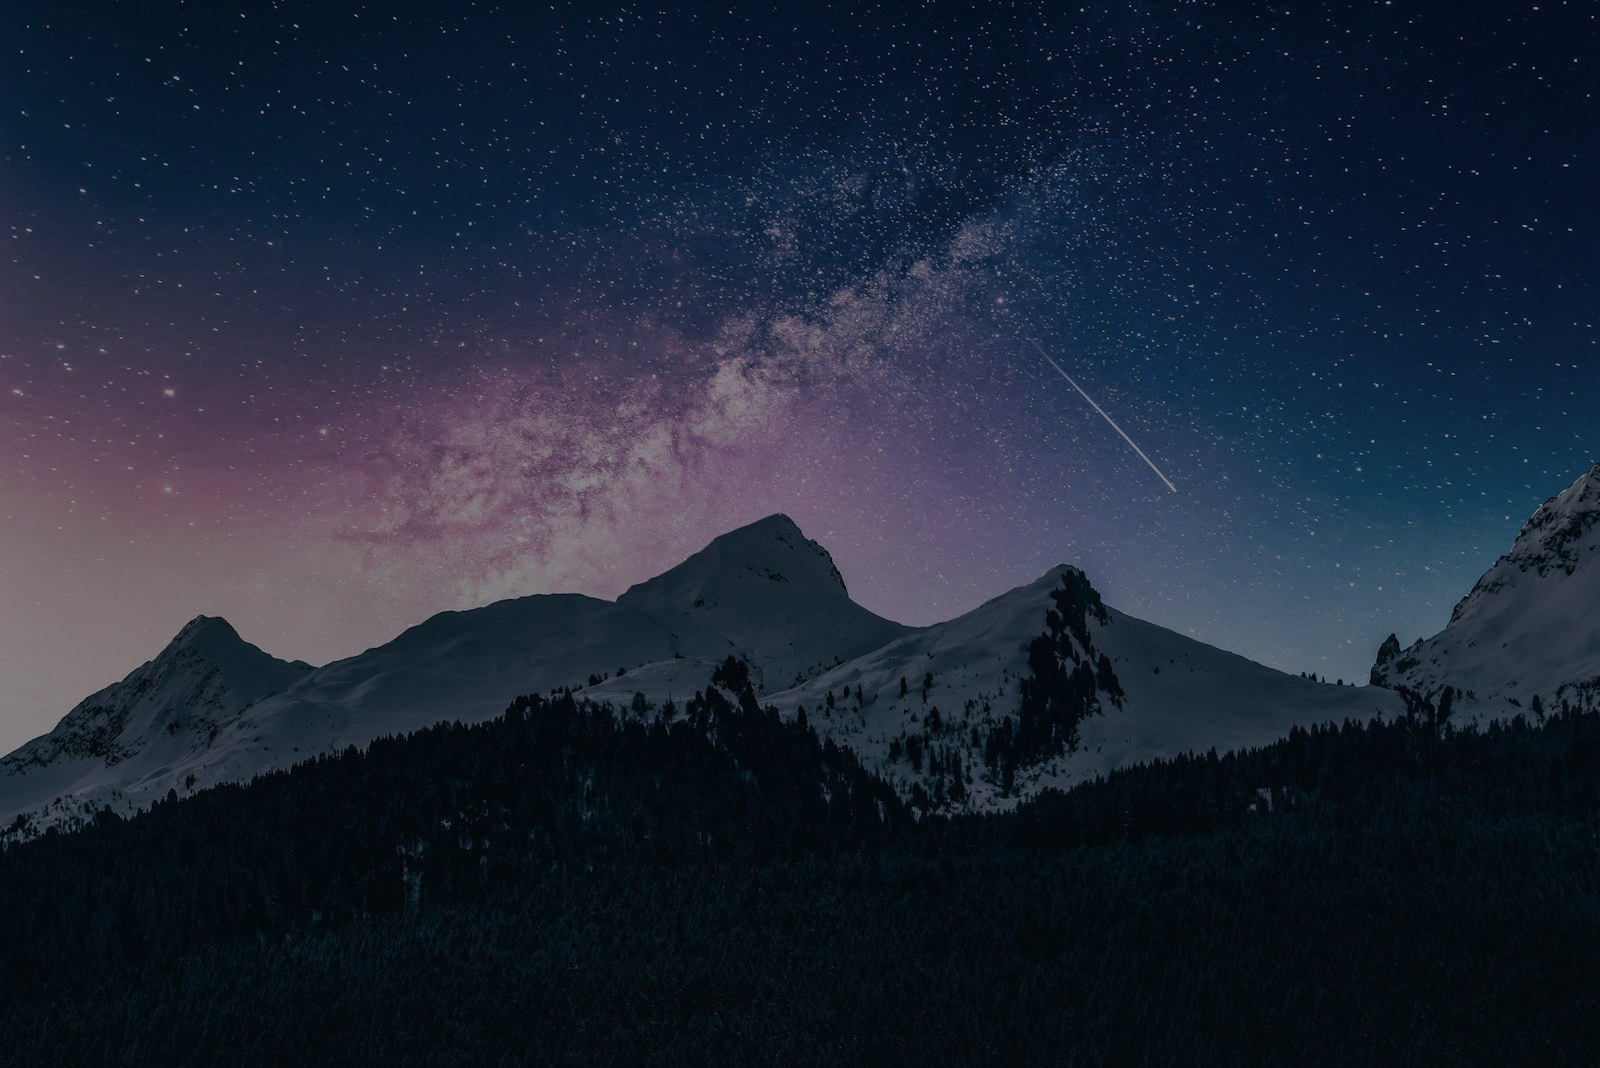
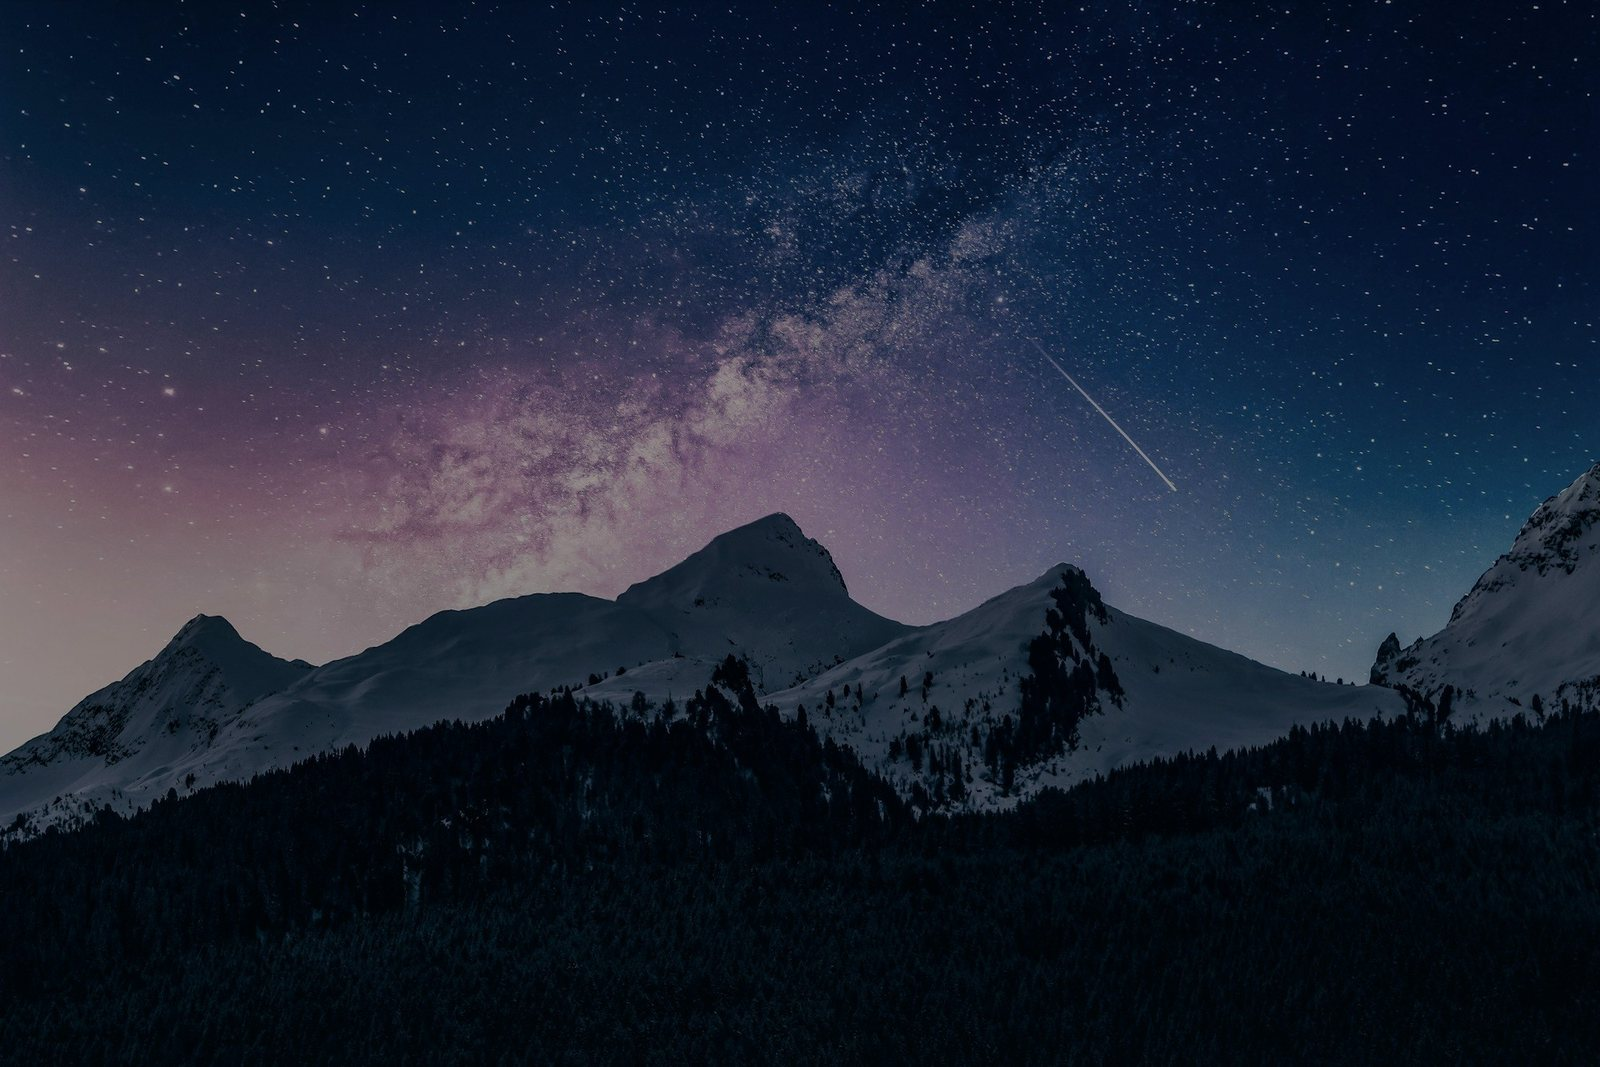
polish(web): cinematic grade on backdrop, a-wrapper click-through, remove hint & audio
- Background regraded (teal shadows / warm highlights, desaturation, gentle
  contrast) at 2000px source, delivered 1600px/227KB.
- Click-through now uses a real <a> covering the page (works even where JS
  navigation is blocked); JS removed entirely - no audio, no hint, pure page.
- Why no audio: real-sample sources unreachable from this network and any
  synthesized sound would be inaudible within the <2s before navigation.

diff --git a/index.html b/index.html
@@ -74,23 +74,20 @@
     animation: fadein 2s var(--ease) .6s forwards;
   }
 
-  /* 底部：呼吸指示（唯一交互动效） */
-  .hint {
-    position: fixed;
-    bottom: 2.5rem;
-    left: 50%;
-    transform: translateX(-50%);
-    font-family: 'Song Subset', serif;
-    font-size: .8rem;
-    letter-spacing: .3em;
-    color: rgba(255,255,255,.35);
-    opacity: 0;
-    animation: fadein 2s var(--ease) 1.5s forwards;
-  }
 
   @keyframes fadein {
     to { opacity: 1; }
   }
+
+  /* 整页链接：覆盖全屏、无链接视觉噪音，继承点击行为 */
+  .page {
+    position: fixed; inset: 0;
+    display: block;
+    color: inherit; text-decoration: none;
+    cursor: pointer;
+    -webkit-tap-highlight-color: transparent;
+  }
+  .page > .bg, .page > .vignette { position: absolute; }
 
   /* 三档断点预设换行 */
   @media (max-width: 600px) {
@@ -111,14 +108,13 @@
     main { gap: 1rem; }
     .en { font-size: clamp(1.5rem, 4.2vw, 2.5rem); }
     .zh { font-size: clamp(.9rem, 1.8vw, 1.15rem); }
-    .hint { bottom: 1.25rem; font-size: .72rem; }
   }
 
-  /* 音效触发后的静音类（如果用户禁音） */
-  .muted .hint { opacity: .2 !important; }
 </style>
 </head>
 <body>
+  <!-- 整页可点击的仓库链接：无 JS 也能跳转（预览 WebView 拦 JS 导航时仍有效） -->
+  <a class="page" href="https://github.com/yingo-server/OpenDiscord" aria-label="进入 OpenDiscord 仓库">
   <div class="bg"></div>
   <div class="vignette"></div>
 
@@ -126,51 +122,8 @@
     <div class="en">They demanded unfettered freedom of thought.</div>
     <div class="zh">他们要求不受束缚的思想自由</div>
   </main>
+  </a>
 
-  <div class="hint">进入</div>
 
-  <script>
-    // 音效：极轻的环境氛围音（可选，需用户手势）
-    // 生成一个简单的呼吸/风声白噪声（Web Audio API）
-    let audioCtx = null;
-    function initAudio() {
-      if (audioCtx) return;
-      try {
-        audioCtx = new (window.AudioContext || window.webkitAudioContext)();
-        const bufferSize = audioCtx.sampleRate * 4;
-        const buffer = audioCtx.createBuffer(2, bufferSize, audioCtx.sampleRate);
-        for (let ch = 0; ch < 2; ch++) {
-          const data = buffer.getChannelData(ch);
-          let last = 0;
-          for (let i = 0; i < bufferSize; i++) {
-            // 极低频滤波的噪声，模拟环境风声
-            const white = Math.random() * 2 - 1;
-            last = last * 0.95 + white * 0.05;
-            data[i] = last * 0.15;
-          }
-        }
-        const src = audioCtx.createBufferSource();
-        src.buffer = buffer;
-        src.loop = true;
-        const gain = audioCtx.createGain();
-        gain.gain.value = 0.08;
-        src.connect(gain);
-        gain.connect(audioCtx.destination);
-        src.start();
-      } catch(e) { /* 静默失败 */ }
-    }
-
-    // 点击跳转仓库
-    document.body.addEventListener('click', () => {
-      initAudio();
-      window.location.href = 'https://github.com/yingo-server/OpenDiscord';
-    });
-
-    // 触摸也支持
-    document.body.addEventListener('touchstart', () => {
-      initAudio();
-      window.location.href = 'https://github.com/yingo-server/OpenDiscord';
-    });
-  </script>
 </body>
 </html>
